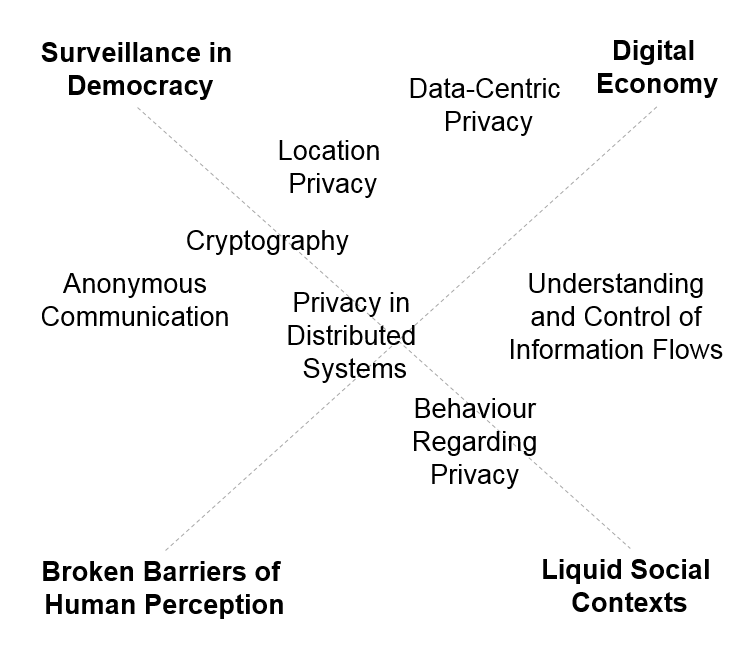
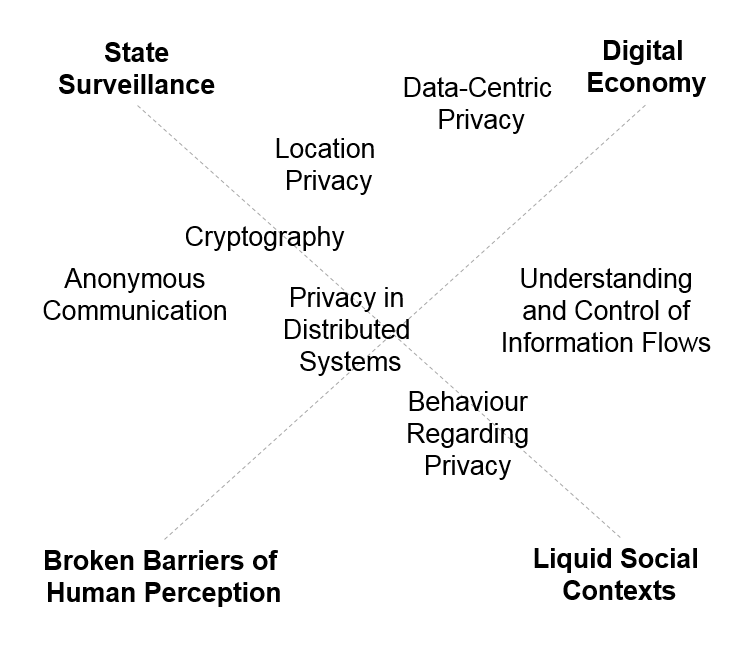
improvements after test presentation

diff --git a/index.html b/index.html
@@ -113,12 +113,12 @@
 						<h2>3. Towards an Identity Layer</h2>
 						<p>Re-unite <strong>authentication</strong> and <strong>encryption</strong></p>
 						<p><strong>Pseudonym</strong>-enabled single sign-on</p>
-						<p>Separate <strong>network</strong>-level from <strong>application</strong>-level <strong>attacks</strong></p>
+						<p>Separate <strong>network</strong>-level from <strong>data</strong>-level <strong>attacks</strong></p>
 						<p><strong>Decentralize</strong> service providers</p>
 					</section>
 					<section>
 						<h2>3.1 XMPP-based Identinet</h2>
-						<p>Simplistic <strong>network</strong> &amp; <strong>session</strong> identifier decoupling</p>
+						<p>Simplistic <strong>network</strong> &amp; <strong>service</strong> decoupling</p>
 						<p>Identity-based <strong>endpoint resolution</strong> and <strong>routing</strong></p>
 						<img src="img/xmpp.png" />
 					</section>
@@ -128,14 +128,23 @@
 						<img src="img/xmppsoa.png" style="height:400px"/>
 					</section>
 					<section>
-						<h2>3.3 <em>SOCIETIES</em> prototype</h2>
-						<p>XMPP adapted to be used as a session-layer protocol</p>
+						<h2>3.3 Service-defined Payloads</h2>
+						<pre><code class="xml">
+<iq from='css1@societies.local/device' to='cis1.societies.local' type='set' id='join1'>
+ <community xmlns='http://societies.org/community'>
+	 <join></join>
+ </community>
+</iq>
+						</code></pre>
+					</section>
+					<section>
+						<h2>3.4 <em>SOCIETIES</em> prototype</h2>
 						<p>Used by over 15 researchers to expose over 40 services</p>
-						<P>Enabled research on local monitoring to detect misbehaved services/applications</p>
+						<P>Enabled research on local <strong>traffic scanning to detect misbehaved</strong> services &amp; applications</p>
 						<img src="img/societies-idlayer.png" style="height:300px"/>
 					</section>
 					<section>
-						<h2>3.4 Identity-driven Service Discovery</h2>
+						<h2>3.5 Identity-driven Service Discovery</h2>
 						<pre><code class="xml">
 <iq from='user1.societies.local' to='client@societies.local/device' type='result' id='info1'>
  <query xmlns='http://jabber.org/protocol/disco#info'>
@@ -149,16 +158,6 @@
   <feature var='http://societies.org/api/schema/privacytrust/trust/model'/></feature>
   <feature var='http://societies.org/api/schema/privacytrust/trust/evidence/collector'/></feature>
  </query>
-</iq>
-						</code></pre>
-					</section>
-					<section>
-						<h2>3.5 Service-defined Payloads</h2>
-						<pre><code class="xml">
-<iq from='css1@societies.local/device' to='cis1.societies.local' type='set' id='join1'>
- <community xmlns='http://societies.org/community'>
-   <join></join>
- </community>
 </iq>
 						</code></pre>
 					</section>
@@ -257,7 +256,7 @@
 
 				<section>
 					<section>
-						<h2>5. Data-centric Re-Identification</h2>
+						<h2>5. Data Re-Identification</h2>
 						<p><strong>Indistinguishability</strong> of records within a database</p>
 						<p>The curse of dimensionality
 							<ul><li><strong>Quasi-identifier</strong> assumption is not realistic</li>
@@ -271,24 +270,30 @@
 					</section>
 					<section>
 						<h2>5.2 Experiments</h2>
-						<p><strong>Netflix</strong> and <strong>Movielen</strong> datasets</p>
+						<p><strong>Netflix</strong> and <strong>Movielens</strong> datasets</p>
 						<p><strong>Re-identification attack</strong> from Narayanan's seminal paper</p>
-						<p>Recent <strong>partitioning-based sanitization algorithm</strong> as reference</p>
+						<p>Recent <strong>partitioning-based sanitization algorithm</strong>...</p>
+							<p><small>... most relaxed privacy guarantee, specifically for high-dimensional case</small>
+							<br/><small>... still destroys utility beyond naïve predictions (i.e. average movie rating)</small></p>
 					</section>
+<!--
 					<section>
 						<h2>5.3 Predictions RMSE</h2>
 						<img src="img/rmse.png" style="height:500px"/>
 					</section>
+-->
 					<section>
-						<h2>5.4 Re-identification vs Auxiliary Information</h2>
+						<h2>5.3 Re-ID vs Auxiliary Info</h2>
+						<p>Re-identification success has a <strong>limit</strong></p>
 						<img src="img/reid-aux.png" style="height:500px"/>
 					</section>
 					<section>
-						<h2>5.5 Re-identification Limit</h2>
+						<h2>5.4 Re-ID Outcomes at Limit</h2>
 						<img src="img/reid-limit.png" style="height:500px"/>
 					</section>
 					<section>
-						<h2>5.6 Adversary Gain</h2>
+						<h2>5.5 Adversary Gain</h2>
+						<p><strong># of new retreived attributes</strong> w.r.t. the targeted user</p>
 						<img src="img/adv-gain.png" style="height:500px"/>
 					</section>
 				</section>
@@ -298,30 +303,87 @@
 						<h2>6. Near-Future of Privacy</h2>
 						<p><strong>Hiding in plain sight</strong>, due to unprecedented volume of data collection and distribution
 							<br/><small>at least until fully homomorphic encryption becomes practical</small><p>
-						<p><strong>Minimize collection</strong> and <strong>aggregation</strong>
-							<br/><small>while enabling functionality and not being cumbersome</small><p>
-						<p>Many other...
-							<br/><small>architecture and development concepts and practices, legislation and regulation, usability and rational incentives...</small><p>
+						<p>Enable <strong>service adaptation</strong> but minimize <strong>context data distribution</strong>
+							<br/><small>while not being cumbersome for the user</small><p>
+						<p><strong>Understanding</strong> privacy
+							<br/><small>challenges and bodies of knowledge, legislation and regulation, usability and user choice...</small><p>
 					</section>
 					<section>
-						<h2>6.1 Pseudonym Management</h2>
+						<h2>6.1 Decentralization and Pseudonym Management</h2>
 						<p>Requires using Identity Management with...
 							<br/>... crypto, anonymous communications, authn &amp; authz...
 							<br/>... and <strong>data-centric privacy</strong>!</p>
-						<p>Pseudonym <strong>linkability</strong> and <strong>re-identification</strong> are both about <strong>distinguishability</strong></p>
-						<p>Empirically <strong>validated</strong> approach, but theoretical limits not explored...</p>
+						<p>Pseudonym <strong>linkability</strong> and record <strong>re-identification</strong> are both about <strong>distinguishability</strong></p>
+						<table class="small-font">
+							<tbody>
+								<tr>
+									<td>Societies Positions on Federated Social Networking</td>
+									<td>W3C Federated Social Web Summit Europe</td>
+									<td>Presented 2010</td>
+								</tr>
+								<tr>
+									<td>User-Hosted SOA Infrastructure over XMPP</td>
+									<td>IEEE Symposium on Computers and Communications</td>
+									<td>Published 2014</td>
+								</tr>
+								<tr>
+									<td>Privacy in Data Publishing for Tailored Recommendation Scenarios</td>
+									<td>Transactions on Data Privacy</td>
+									<td>Under minor review</td>
+								</tr>
+							</tbody>
+						</table>
 					</section>
 					<section>
-						<h2>6.2 Data Minimization</h2>
-						<p>Very relevant to mitigate <strong>aggregation</strong> risks</p>
+						<h2>6.2 Context Data Minimization</h2>
+						<p>Very relevant to <strong>mitigate aggregation</strong> risks</p>
 						<p>Must be <strong>easy for the user</strong> and compliant with <strong>real-time</strong> requirements</p>
+						<table class="small-font">
+							<tbody>
+								<tr>
+									<td>Context Management Architecture for Future Internet Services</td>
+									<td>ICT Mobile and Wireless Communications Summit</td>
+									<td>Published 2009; 20 citations</td>
+								</tr>
+								<tr>
+									<td>CATS: Context-Aware Triggering System for Next Generation Networks</td>
+									<td>IFIP Advances in Information and Communication Technology: Wireless and Mobile Networking</td>
+									<td>Published 2009</td>
+								</tr>
+								<tr>
+									<td>Professional and User-Generated Content Rating using Context Information</td>
+									<td>Networked &amp; Electronic Media Summit</td>
+									<td>Presented &amp; published 2010</td>
+								</tr>
+								<tr>
+									<td>XMPP based Context Management Architecture</td>
+									<td>IEEE Globecom Workshops</td>
+									<td>Published 2010; 12 citations</td>
+								</tr>
+								<tr>
+									<td>Low-latency privacy-enabled Context Distribution Architecture</td>
+									<td>IEEE International Conference on Communications (ICC)</td>
+									<td>Presented &amp; published 2012</td>
+								</tr>
+							</tbody>
+						</table>
 					</section>
 					<section>
-						<h2>6.3 And other under-explored paths and synergies...</h2>
-						<p><strong>Network centricity</strong> and practical, scalable <strong>de-centralized service hosting</strong></p>
-						<p><strong>Multilateral security</strong> and <strong>game theory</strong></p>
+						<h2>6.3 Interdisciplinary Privacy</h2>
+						<p>Characterization and mapping of <strong>privacy challenges</strong> and <strong>fields</strong></p>
+						<p>Indentification of more <strong>interdisciplinary work</strong>
+							<br/><small>e.g. multilateral security and game theory</small></p>
 						<p>People-savvy technology</p>
 						<p>Tech-savvy legislation and regulation</p>
+						<table class="small-font">
+							<tbody>
+								<tr>
+									<td>Privacy Untangled</td>
+									<td>17o Seminário da Rede Temática de Comunicações Móveis (RTCM)</td>
+									<td>Presented 2013</td>
+								</tr>
+							</tbody>
+						</table>
 					</section>
 				</section>
 

diff --git a/custom.css b/custom.css
@@ -28,4 +28,5 @@ pre {
 
 .reveal .small-font td {
   font-size: 18px;
+  vertical-align: middle;
 }
